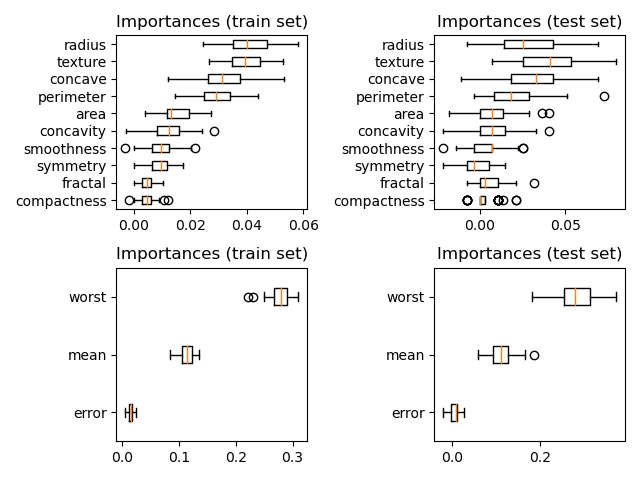
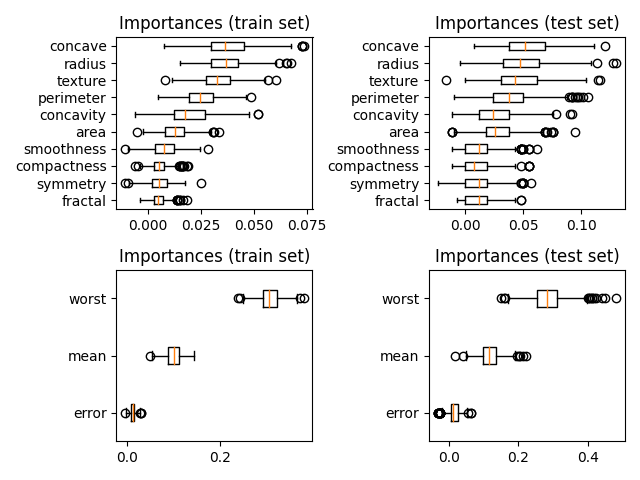
add cv and simulation

diff --git a/examples/breast_cancer.py b/examples/breast_cancer.py
@@ -1,6 +1,6 @@
 from sklearn.datasets import load_breast_cancer
 from grouped_permutation_importance.grouped_permutation_importance import grouped_permutation_importance
-from sklearn.model_selection import train_test_split
+from sklearn.model_selection import StratifiedShuffleSplit
 from sklearn.pipeline import Pipeline
 from sklearn.preprocessing import MinMaxScaler
 from sklearn.svm import SVC
@@ -16,15 +16,12 @@ columns = ["radius", "texture", "perimeter", "area", "smoothness", "compactness"
 for key in columns:
     idxs.append([x for (x, y) in enumerate(feature_names) if key in y])
 
-X_train, X_val, y_train, y_val = train_test_split(X, y, random_state=0, test_size=.2)
+model = Pipeline([("MinMax", MinMaxScaler()),  ("SVC", SVC())])
+cv=StratifiedShuffleSplit(n_splits=10, test_size=0.2)
 
-pipe = Pipeline([("MinMax", MinMaxScaler()),  ("SVC", SVC())])
-model = pipe.fit(X_train, y_train)
-print(pipe.score(X_val, y_val))
-
-
-r = grouped_permutation_importance(model, X_train, y_train, idxs=idxs,
-                                   n_repeats=50, random_state=0, scoring="balanced_accuracy", n_jobs=5)
+r = grouped_permutation_importance(model, X, y, idxs=idxs,
+                                   n_repeats=50, random_state=0, scoring="balanced_accuracy", n_jobs=5,
+                                   cv=cv, perm_set="train")
 
 sorted_idx = r.importances_mean.argsort()
 fig, ax = plt.subplots(2, 2)
@@ -34,8 +31,9 @@ ax[0, 0].boxplot(r.importances[sorted_idx].T,
 ax[0, 0].set_title("Importances (train set)")
 
 
-r = grouped_permutation_importance(model, X_val, y_val, idxs=idxs,
-                              n_repeats=50, random_state=0, scoring="balanced_accuracy", n_jobs=5)
+r = grouped_permutation_importance(model, X, y, idxs=idxs,
+                              n_repeats=50, random_state=0, scoring="balanced_accuracy", n_jobs=5,
+                                  cv=cv, perm_set="test")
 
 
 ax[0, 1].boxplot(r.importances[sorted_idx].T,
@@ -47,16 +45,18 @@ idxs = []
 for key in columns:
     idxs.append([x for (x, y) in enumerate(feature_names) if key in y])
 
-r = grouped_permutation_importance(model, X_train, y_train, idxs=idxs,
-                              n_repeats=50, random_state=0, scoring="balanced_accuracy", n_jobs=5)
+r = grouped_permutation_importance(model, X, y, idxs=idxs,
+                              n_repeats=50, random_state=0, scoring="balanced_accuracy", n_jobs=5,
+                                  cv=cv, perm_set="train")
 sorted_idx = r.importances_mean.argsort()
 ax[1, 0].boxplot(r.importances[sorted_idx].T,
            vert=False, labels=np.array(columns)[sorted_idx])
 ax[1, 0].set_title("Importances (train set)")
 
 
-r = grouped_permutation_importance(model, X_val, y_val, idxs=idxs,
-                              n_repeats=50, random_state=0, scoring="balanced_accuracy", n_jobs=5)
+r = grouped_permutation_importance(model, X, y, idxs=idxs,
+                              n_repeats=50, random_state=0, scoring="balanced_accuracy", n_jobs=5,
+                                  cv=cv, perm_set="test")
 
 
 ax[1, 1].boxplot(r.importances[sorted_idx].T,

diff --git a/grouped_permutation_importance/grouped_permutation_importance.py b/grouped_permutation_importance/grouped_permutation_importance.py
@@ -1,4 +1,4 @@
-# The code is 99.9 percent from scikit learn.
+# The code is 99 percent from scikit learn.
 import numpy as np
 from joblib import Parallel
 
@@ -9,12 +9,34 @@ from sklearn.utils import check_array
 from sklearn.utils.fixes import delayed
 from sklearn.inspection._permutation_importance import _weights_scorer
 from grouped_permutation_importance._adapted_permutation_importance import _calculate_permutation_scores
+from sklearn.base import clone
 
 def grouped_permutation_importance(estimator, X, y, *, scoring=None, n_repeats=5, idxs=None,
-                                   n_jobs=None, random_state=None, sample_weight=None):
+                                   n_jobs=None, random_state=None, sample_weight=None, cv=None, perm_set=None):
 
     if not hasattr(X, "iloc"):
         X = check_array(X, force_all_finite='allow-nan', dtype=None)
+
+    if cv is not None:
+        if perm_set not in ["train", "test"]:
+            raise AttributeError("Parameter cv needs perm_set and set to 'train' or 'test'.")
+        importances = np.empty((len(idxs), 0))
+        for train_idx, test_idx in cv.split(X, y):
+            model = clone(estimator)
+            model.fit(X[train_idx], y[train_idx])
+            if perm_set == "train":
+                idx = train_idx
+            else:
+                idx = test_idx
+            importances = np.concatenate([importances, grouped_permutation_importance(model, X[idx], y[idx], scoring=scoring,
+                                                                                      n_repeats=n_repeats, idxs=idxs,
+                                                  n_jobs=n_jobs, random_state=None, sample_weight=None, cv=None)["importances"]], axis=1)
+        return Bunch(importances_mean=np.mean(importances, axis=1),
+                     importances_std=np.std(importances, axis=1),
+                     importances=importances)
+    else:
+        if perm_set is not None:
+            raise AttributeError("Parameter perm_set needs cv.")
 
     # Precompute random seed from the random state to be used
     # to get a fresh independent RandomState instance for each
@@ -28,7 +50,7 @@ def grouped_permutation_importance(estimator, X, y, *, scoring=None, n_repeats=5
     baseline_score = _weights_scorer(scorer, estimator, X, y, sample_weight)
 
     scores = Parallel(n_jobs=n_jobs)(delayed(_calculate_permutation_scores)(
-        estimator, X, y, sample_weight, col_idx, random_seed, n_repeats, scorer
+            estimator, X, y, sample_weight, col_idx, random_seed, n_repeats, scorer
     ) for col_idx in idxs)
 
     importances = baseline_score - np.array(scores)

diff --git a/examples/make_class.py b/examples/make_class.py
@@ -1,0 +1,51 @@
+import matplotlib.pyplot as plt
+import numpy as np
+from sklearn.model_selection import StratifiedShuffleSplit
+from sklearn.ensemble import RandomForestClassifier
+from sklearn.datasets import make_classification
+
+from grouped_permutation_importance.grouped_permutation_importance import grouped_permutation_importance
+
+
+X, y = make_classification(n_samples=300, n_features=10, n_informative=10, n_redundant=0, random_state=42)
+X = np.concatenate([X, np.random.normal(size=(len(X), 90))], axis=1)
+
+for i, split in enumerate([2, 8, 10]):
+
+    first = range(split)
+    second = range(split, 100)
+    columns = [f"{split*10}% informative", f"{(10-split)*10}% informative"]
+
+
+    cv = StratifiedShuffleSplit(5, test_size=0.2)
+    test_forest_imp = np.empty((len(columns), 0))
+    bacc = []
+
+    model = RandomForestClassifier(class_weight="balanced")
+
+    r_train = grouped_permutation_importance(model, X, y, idxs=[first, second],
+                                             n_repeats=30, random_state=0, scoring="balanced_accuracy",
+                                             n_jobs=5, cv=cv, perm_set="train")["importances"]
+
+
+    r_test = grouped_permutation_importance(model, X, y, idxs=[first, second],
+                                            n_repeats=30, random_state=0, scoring="balanced_accuracy",
+                                            n_jobs=5, cv=cv, perm_set="test")["importances"]
+
+
+    sorted_idx = list(range(len(columns)))[::-1]
+
+    plt.subplot(3, 2, 1+2*i)
+    plt.boxplot(r_train[sorted_idx].T,
+               vert=False, labels=np.array(columns)[sorted_idx])
+    if i == 0:
+        plt.title("Perm-Imp (train set)")
+
+    plt.subplot(3, 2, 2 + 2*i)
+    sorted_idx = list(range(len(columns)))[::-1]
+    plt.boxplot(r_test[sorted_idx].T,
+               vert=False, labels=np.array(columns)[sorted_idx])
+    if i == 0:
+        plt.title("Perm-Imp (test set)")
+plt.tight_layout()
+plt.savefig("../demo/make_class.png")

diff --git a/README.md b/README.md
@@ -2,7 +2,7 @@
 
 The interpretability of machine learning models is a common task. 
 In many domains datasets consist of different feature sources.  
-This repo allows a simple analysis to calculate the influence 
+This repository allows a simple analysis to calculate the influence 
 of a feature group on the overall result. This is done by a slight 
 modification of the permutation importance of scikit-learn. 
 
@@ -16,16 +16,23 @@ columns = ["mean", "error", "worst"]
 for key in columns:
     idxs.append([x for (x, y) in enumerate(feature_names) if key in y])
 
-X_train, X_val, y_train, y_val = train_test_split(X, y, random_state=0, test_size=.2)
-
+cv=StratifiedShuffleSplit(n_splits=10, test_size=0.2)
 pipe = Pipeline([("MinMax", MinMaxScaler()),  ("SVC", SVC())])
-model = pipe.fit(X_train, y_train)
 
 
-r = grouped_permutation_importance(model, X_train, y_train, idxs=idxs,
-                                   n_repeats=50, random_state=0, scoring="balanced_accuracy", n_jobs=5)
+r = grouped_permutation_importance(pipe, X, y, idxs=idxs, n_repeats=50, random_state=0, 
+                                   scoring="balanced_accuracy", n_jobs=5, cv=cv, 
+                                   perm_set="train")
 ```
 
 <p align="center">
 <img src="./demo/breast_cancer.png">
+</p>
+
+## Simulation
+
+File "examples/make_class.py" shows a small example using simulated feature-groups. This demonstrates the expressiveness of the method whereas a simple aggregation of single feature weights is refuted.
+
+<p align="center">
+<img src="./demo/make_class.png">
 </p>
